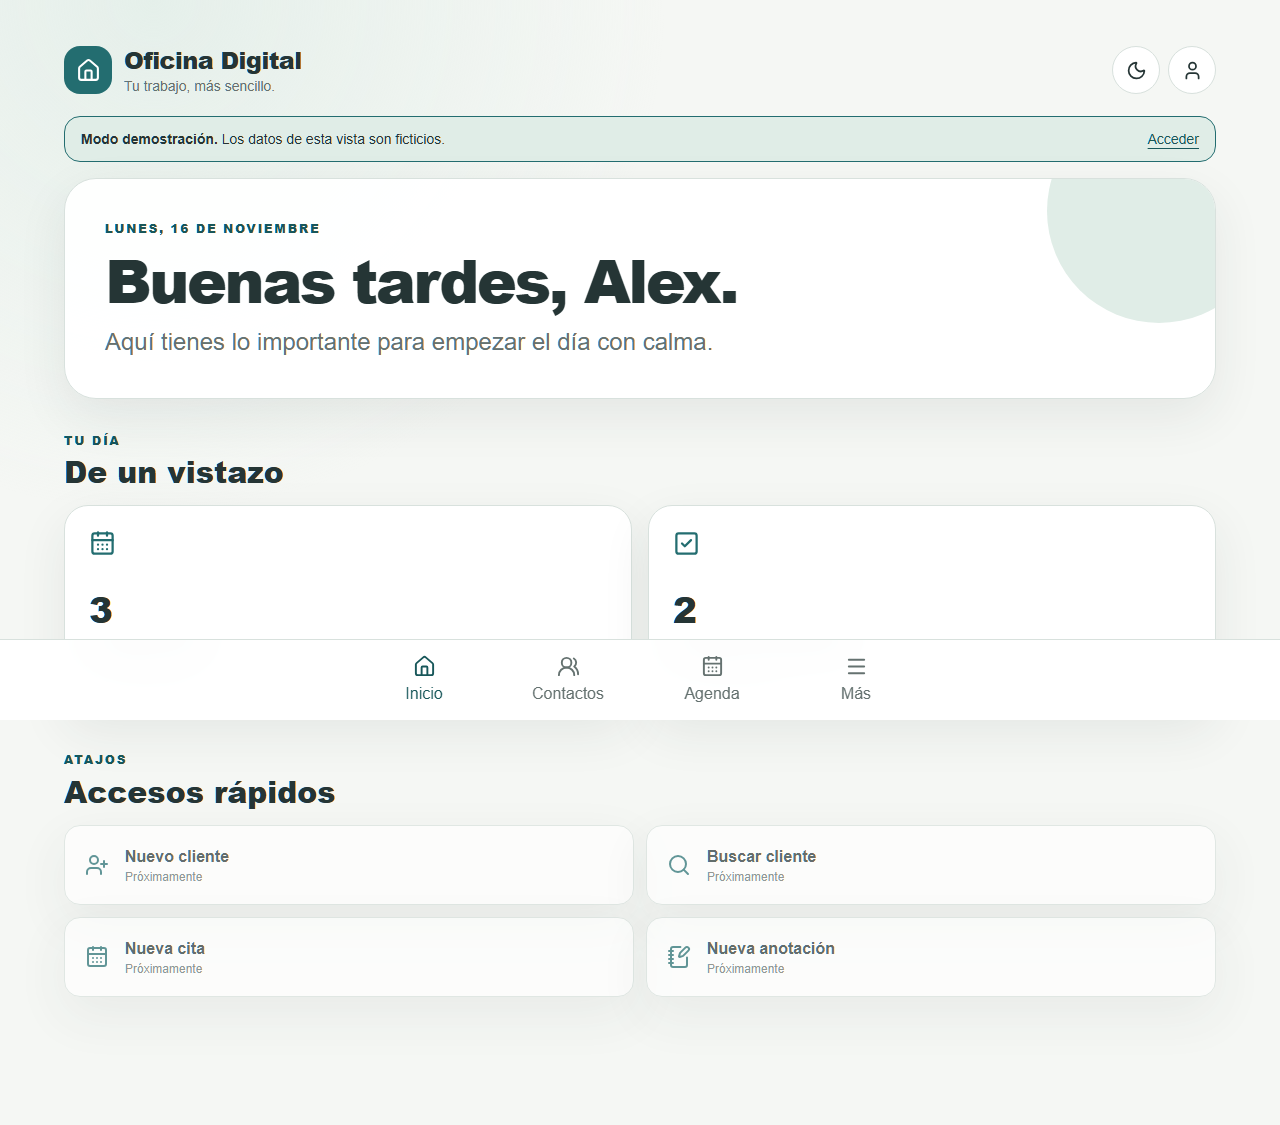
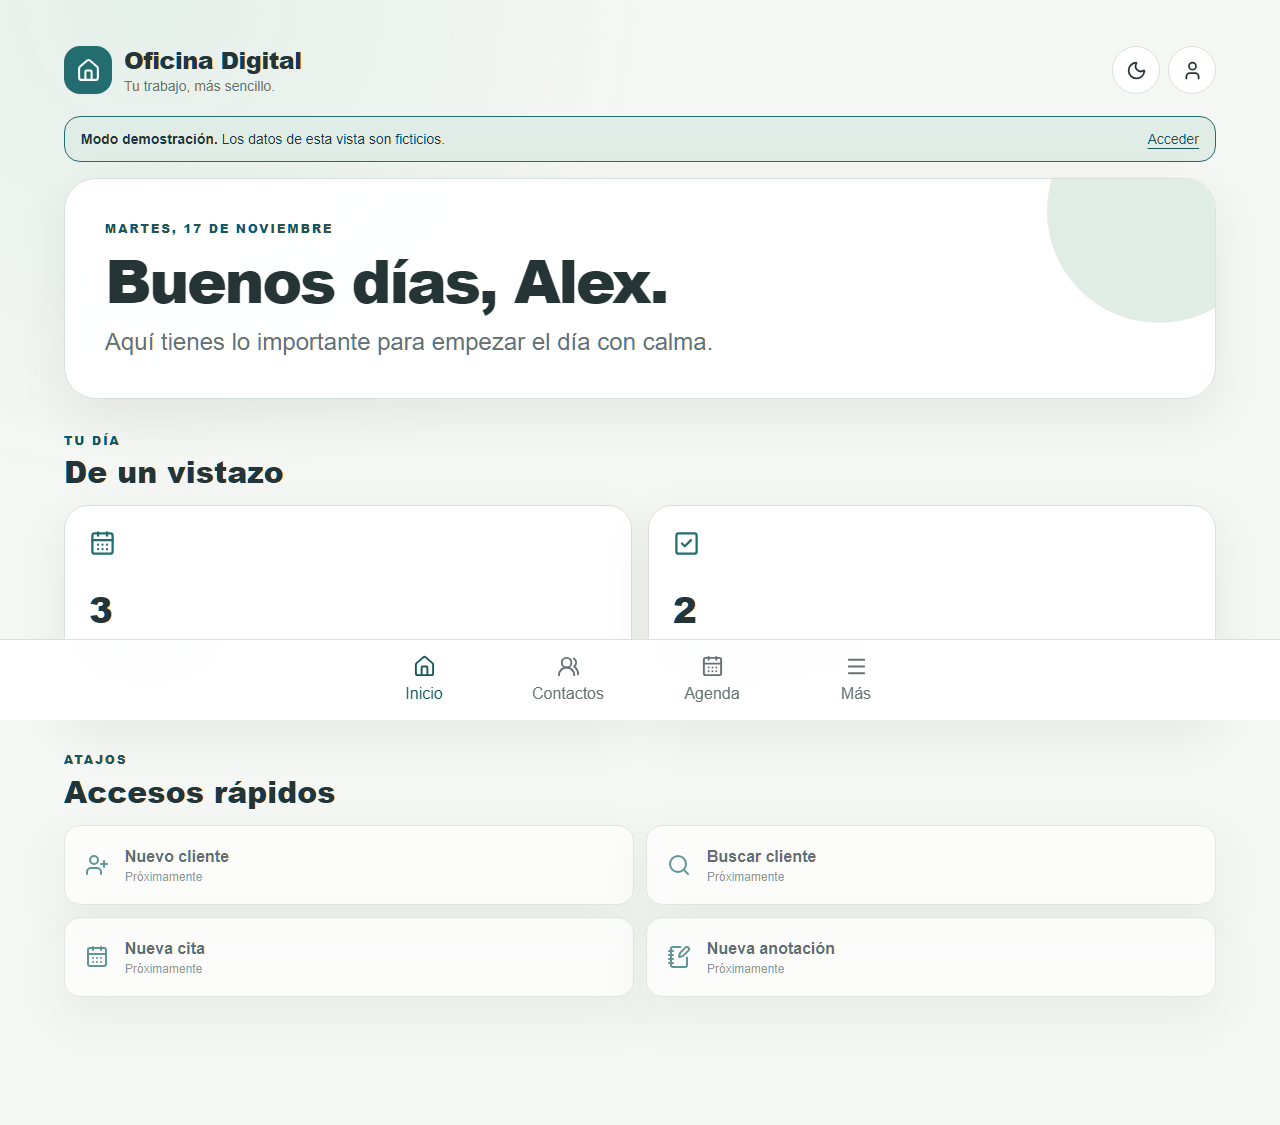
feat: conectar Supabase real y verificar RLS

Changed region(s): [[0.2812, 0.2178, 0.5938, 0.28], [0.0938, 0.1867, 0.25, 0.2178], [0.1875, 0.2489, 0.25, 0.28]]

diff --git a/e2e/demo.spec.ts b/e2e/demo.spec.ts
@@ -1,11 +1,17 @@
 import { expect, test } from "@playwright/test";
+import { loadLocalEnv } from "../scripts/load-local-env.mjs";
+
+loadLocalEnv(".env.local");
+const supabaseConfigured = Boolean(
+  process.env.NEXT_PUBLIC_SUPABASE_URL && process.env.NEXT_PUBLIC_SUPABASE_PUBLISHABLE_KEY,
+);
 
 test("la demo carga y distingue sus datos", async ({ page }, testInfo) => {
   await page.goto("/demo");
   await expect(page.getByRole("heading", { level: 1 })).toContainText("Alex");
   await expect(page.getByRole("status")).toContainText("datos de esta vista son ficticios");
   await expect(page.getByRole("navigation", { name: "Navegación principal" })).toBeVisible();
-  await page.screenshot({ path: `docs/screenshots/inicio-${testInfo.project.name}.png`, fullPage: true });
+  await page.screenshot({ path: `test-results/screenshots/inicio-${testInfo.project.name}.png`, fullPage: true });
 });
 
 test("los accesos futuros no simulan funcionalidad", async ({ page }) => {
@@ -23,10 +29,15 @@ test("el tema elegido persiste al recargar", async ({ page }) => {
   await expect(page.locator("html")).toHaveAttribute("data-theme", "dark");
 });
 
-test("sin credenciales, una ruta real vuelve a la demo sin fallar", async ({ page }) => {
+test("una ruta real protege el acceso según la configuración", async ({ page }) => {
   await page.goto("/app");
-  await expect(page).toHaveURL(/\/demo$/);
-  await expect(page.getByRole("status")).toContainText("Modo demostración");
+  if (supabaseConfigured) {
+    await expect(page).toHaveURL(/\/login\?next=%2Fapp$/);
+    await expect(page.getByRole("heading", { name: "Qué alegría verte" })).toBeVisible();
+  } else {
+    await expect(page).toHaveURL(/\/demo$/);
+    await expect(page.getByRole("status")).toContainText("Modo demostración");
+  }
 });
 
 test("la vista es navegable con teclado y no desborda horizontalmente", async ({ page }) => {

diff --git a/e2e/auth.spec.ts b/e2e/auth.spec.ts
@@ -1,0 +1,33 @@
+import { expect, test } from "@playwright/test";
+import { loadLocalEnv } from "../scripts/load-local-env.mjs";
+
+loadLocalEnv(".env.local", ".env.test.local");
+
+const email = process.env.TEST_USER_A_EMAIL;
+const password = process.env.TEST_USER_A_PASSWORD;
+const configured = Boolean(
+  process.env.NEXT_PUBLIC_SUPABASE_URL &&
+  process.env.NEXT_PUBLIC_SUPABASE_PUBLISHABLE_KEY &&
+  email &&
+  password,
+);
+
+test("login, sesión persistente, perfil y logout reales", async ({ page }) => {
+  test.skip(!configured, "Requiere Supabase y usuario ficticio local");
+
+  await page.goto("/login");
+  await page.getByLabel("Correo electrónico").fill(email!);
+  await page.getByLabel("Contraseña").fill(password!);
+  await page.getByRole("button", { name: "Iniciar sesión" }).click();
+  await expect(page).toHaveURL(/\/app$/);
+  await expect(page.getByRole("heading", { level: 1 })).toBeVisible();
+
+  await page.reload();
+  await expect(page).toHaveURL(/\/app$/);
+  await page.getByRole("link", { name: "Ver perfil" }).click();
+  await expect(page).toHaveURL(/\/app\/profile$/);
+  await expect(page.getByText(email!, { exact: true })).toBeVisible();
+
+  await page.getByRole("button", { name: "Cerrar sesión" }).click();
+  await expect(page).toHaveURL(/\/login$/);
+});

diff --git a/docs/QA_HITO_1.md b/docs/QA_HITO_1.md
@@ -1,62 +1,77 @@
 # QA — Hito 1
 
-Última actualización: 16 de noviembre de 2026.
+Última actualización: 17 de noviembre de 2026.
 
 ## Estado del cierre
 
 ### Implementado
 
 - Aplicación Next.js responsive, tema persistente y modo demostración aislado.
-- Cliente SSR de Supabase, login, cierre de sesión, perfil y rutas protegidas.
+- Autenticación SSR con Supabase, login, cierre de sesión, perfil y rutas protegidas.
 - Migración reproducible para perfiles, contactos y actividades.
 - Políticas RLS separadas para `select`, `insert`, `update` y `delete`.
-- Suite pgTAP de aislamiento con dos usuarios y 10 aserciones.
-- Contratos independientes para Drive, Calendar e IA.
+- Suite pgTAP local y verificador remoto con dos usuarios autenticados normales.
+- Contratos desacoplados para Drive, Calendar e IA.
 
 ### Verificado
 
-- Calidad estática, pruebas unitarias, build de producción y recorridos Playwright.
-- Demo sin tráfico externo ni peticiones de escritura durante los recorridos.
+- Proyecto Supabase `nvrmatyniuiliqyyrmxw` vinculado mediante CLI.
+- Migración `202611160001_hito_1_foundation.sql` aplicada y registrada en remoto.
+- Site URL y redirect URL de Auth configuradas como `http://localhost:3000`.
+- Autenticación real de dos usuarios ficticios diferentes.
+- Creación automática y privacidad de ambos perfiles.
+- CRUD propio de contactos para ambos usuarios.
+- Denegación cruzada de lectura, creación atribuida, modificación y eliminación.
+- Privacidad de actividades y denegación de anotaciones sobre contactos ajenos.
+- Persistencia de sesión, perfil y logout reales en móvil y escritorio.
+- Demo sin tráfico externo ni solicitudes de escritura.
 - Navegación básica por teclado, landmarks y ausencia de desbordamiento horizontal.
-- Historial Git sin secretos detectados por búsqueda de patrones comunes.
-- Auditoría npm consultada el 16/11/2026: 0 vulnerabilidades conocidas.
+- Historial Git sin archivos locales ni credenciales versionadas.
 
-### Requiere configuración externa
+### Pendiente externo
 
-- Crear y conectar un proyecto Supabase de desarrollo.
-- Aplicar la migración al proyecto alojado.
-- Ejecutar `supabase test db` con Docker y Supabase CLI.
-- Validar autenticación y aislamiento contra Supabase real con dos usuarios de prueba.
-- Crear el repositorio público `adriantorn/oficina-digital` y hacer el primer push.
+- `supabase test db --remote` no pudo ejecutar pgTAP porque Supabase CLI requiere Docker o Podman para `pg_prove`. La misma política RLS sí quedó verificada contra el proyecto alojado mediante `npm run test:supabase` y sesiones reales.
+- Confirmar la rotación de las claves legacy/JWT. Supabase CLI 3.2.0 mostró una clave legacy `service_role` completa al ejecutar `projects api-keys` sin `--reveal`. La clave no se usó ni se escribió en archivos, pero debe considerarse expuesta.
 
-## Matriz
+## Matriz de resultados
 
-| Verificación | Comando | Estado inicial |
+| Verificación | Comando | Resultado |
 |---|---|---|
+| Enlace del proyecto | `npx supabase link --project-ref nvrmatyniuiliqyyrmxw` | Superado |
+| Simulación de migraciones | `npx supabase db push --remote --dry-run` | Superado; una migración prevista |
+| Aplicación de migraciones | `npx supabase db push --remote --yes` | Superado |
+| Estado de migraciones | `npx supabase migration list --remote` | Local y remoto: `202611160001` |
+| Configuración Auth | `npx supabase config diff/push --remote` | Site URL y redirect URL verificadas |
+| RLS remoto | `npm run test:supabase` | Superado con dos usuarios y limpieza final |
 | ESLint | `npm run lint` | Superado, 0 errores |
 | TypeScript estricto | `npm run typecheck` | Superado, 0 errores |
 | Componentes/estados | `npm test` | Superado, 2 archivos / 4 tests |
-| Compilación de producción | `npm run build` | Superada con Next.js 16.4.6 y Webpack |
-| Móvil y escritorio | `npm run test:e2e` | Superado: 12/12 en Chromium, móvil y escritorio |
-| Aislamiento RLS | `npm run db:test` | No ejecutado: este equipo no dispone de Docker ni Supabase CLI |
-| Dependencias | `npm audit --json` | Superado: 0 vulnerabilidades conocidas |
-| Historial Git | búsqueda de patrones sobre `git log -p --all` | Sin credenciales detectadas; coincidencias revisadas eran documentación/nombres de variables |
+| Compilación de producción | `npm run build` | Superada con `.env.local` y Next.js 16.4.6 |
+| Navegador móvil/escritorio | `npm run test:e2e` | Superado: 14/14 en Chromium |
+| pgTAP remoto | `npx supabase test db --remote` | No ejecutado: requiere Docker/Podman |
+| Dependencias | `npm audit --json` | 0 vulnerabilidades conocidas en la última consulta |
 
-No se considera verificada una fila hasta registrar una ejecución real. El informe se actualizará durante la implementación.
+## Cobertura RLS ejecutada
 
-La autenticación contra un proyecto real no se ha ejecutado porque no se proporcionaron credenciales de Supabase. El flujo, las rutas y las migraciones están implementados; deben validarse al conectar el proyecto. Las capturas verificadas están en `docs/screenshots/inicio-desktop.png` y `docs/screenshots/inicio-mobile.png`.
+El verificador remoto usa exclusivamente la Publishable key y las sesiones de los dos usuarios ficticios; no usa `service_role`.
 
-La publicación de GitHub tampoco se ha ejecutado. La cuenta conectada es `adriantorn`, pero el conector disponible no permite crear repositorios y GitHub CLI no está instalado. El propietario debe crear un repositorio público vacío llamado `oficina-digital`; después se podrá añadir `origin` y conservar el historial con un push normal.
+1. Ambos usuarios inician sesión y solo leen su propio perfil.
+2. A crea, consulta, modifica y elimina un contacto propio.
+3. B crea, consulta, modifica y elimina un contacto propio.
+4. A no puede leer el contacto de B y B no puede leer el de A.
+5. B no puede modificar ni eliminar el contacto de A.
+6. B no puede crear un contacto atribuido a A.
+7. A crea una actividad propia; B no puede leerla ni añadir actividades al contacto de A.
+8. Los contactos ficticios se eliminan al finalizar, incluso ante fallo.
 
-## Cobertura funcional preparada
+## Seguridad de archivos locales
 
-- Modo demo etiquetado y separado.
-- Estado real sin cifras ficticias.
-- Acciones futuras deshabilitadas con explicación.
-- Login, cierre de sesión, persistencia SSR y ruta de perfil protegida.
-- Políticas RLS y prueba con dos identidades.
-- Navegación táctil y responsive con proyectos Playwright móvil/escritorio.
+`.env.local`, `.env.test.local` y `supabase/.temp/` están ignorados por Git. Las pruebas de seguimiento confirmaron que ninguno está versionado. `.env.test.example` contiene solo marcadores y puede publicarse.
 
-## Revisión estática de RLS
+Las capturas de referencia permanecen en `docs/screenshots/`. Las capturas generadas por Playwright se escriben en `test-results/`, que también está ignorado, para no ensuciar el repositorio.
 
-Las políticas impiden asignar contactos a otro propietario, mover actividades a contactos ajenos o atribuirlas a otro autor. La eliminación de un contacto propio elimina sus actividades por cascada. Esta revisión no sustituye `supabase test db`; su estado permanece pendiente hasta ejecutar PostgreSQL real.
+## Incidencias resueltas
+
+- Los usuarios iniciales devolvieron `invalid_credentials`; se recrearon como usuarios ficticios confirmados y la repetición pasó.
+- Una prueba antigua esperaba redirección a demo sin configuración. Ahora comprueba `/login` cuando Supabase está configurado y mantiene la expectativa de demo cuando no lo está.
+- Turbopack presentó un fallo interno PostCSS en Windows; los scripts mantienen Webpack, cuya compilación está verificada localmente y en GitHub Actions.

diff --git a/docs/SUPABASE_SETUP.md b/docs/SUPABASE_SETUP.md
@@ -45,10 +45,13 @@ La suite `supabase/tests/rls_isolation_test.sql` crea dos identidades transitori
 
 ## 5. Validación funcional alojada
 
-1. Crea dos usuarios de prueba sin datos personales reales.
-2. Inicia sesión con cada uno y confirma que se crea su perfil.
-3. Verifica `/app`, `/app/profile`, persistencia tras recarga y cierre de sesión.
-4. Ejecuta las operaciones de aislamiento contra contactos y actividades. No marques esta fase como superada hasta registrar resultados reales en `docs/QA_HITO_1.md`.
+1. Copia `.env.test.example` como `.env.test.local`.
+2. Crea dos usuarios de prueba confirmados, sin datos personales reales, y completa sus credenciales exclusivamente en el archivo local ignorado.
+3. Ejecuta `npm run test:supabase`. La prueba usa la Publishable key y sesiones normales; nunca `service_role`.
+4. Ejecuta `npm run build` y `npm run test:e2e` para verificar `/app`, `/app/profile`, persistencia tras recarga y cierre de sesión en móvil y escritorio.
+5. Registra resultados reales en `docs/QA_HITO_1.md`.
+
+La prueba alojada crea datos ficticios, comprueba CRUD propio y denegaciones cruzadas, y elimina los contactos al finalizar. No necesita Docker.
 
 ## Limpieza
 

diff --git a/README.md b/README.md
@@ -35,6 +35,7 @@ npm run typecheck
 npm test
 npm run build
 npm run test:e2e
+npm run test:supabase
 ```
 
 Las pruebas RLS requieren Docker y Supabase CLI:
@@ -43,6 +44,8 @@ Las pruebas RLS requieren Docker y Supabase CLI:
 supabase start
 npm run db:test
 ```
+
+La comprobación alojada sin Docker usa dos usuarios ficticios configurados únicamente en `.env.test.local` y ejecuta `npm run test:supabase`. Consulta [SUPABASE_SETUP.md](docs/SUPABASE_SETUP.md).
 
 ## Estructura
 
